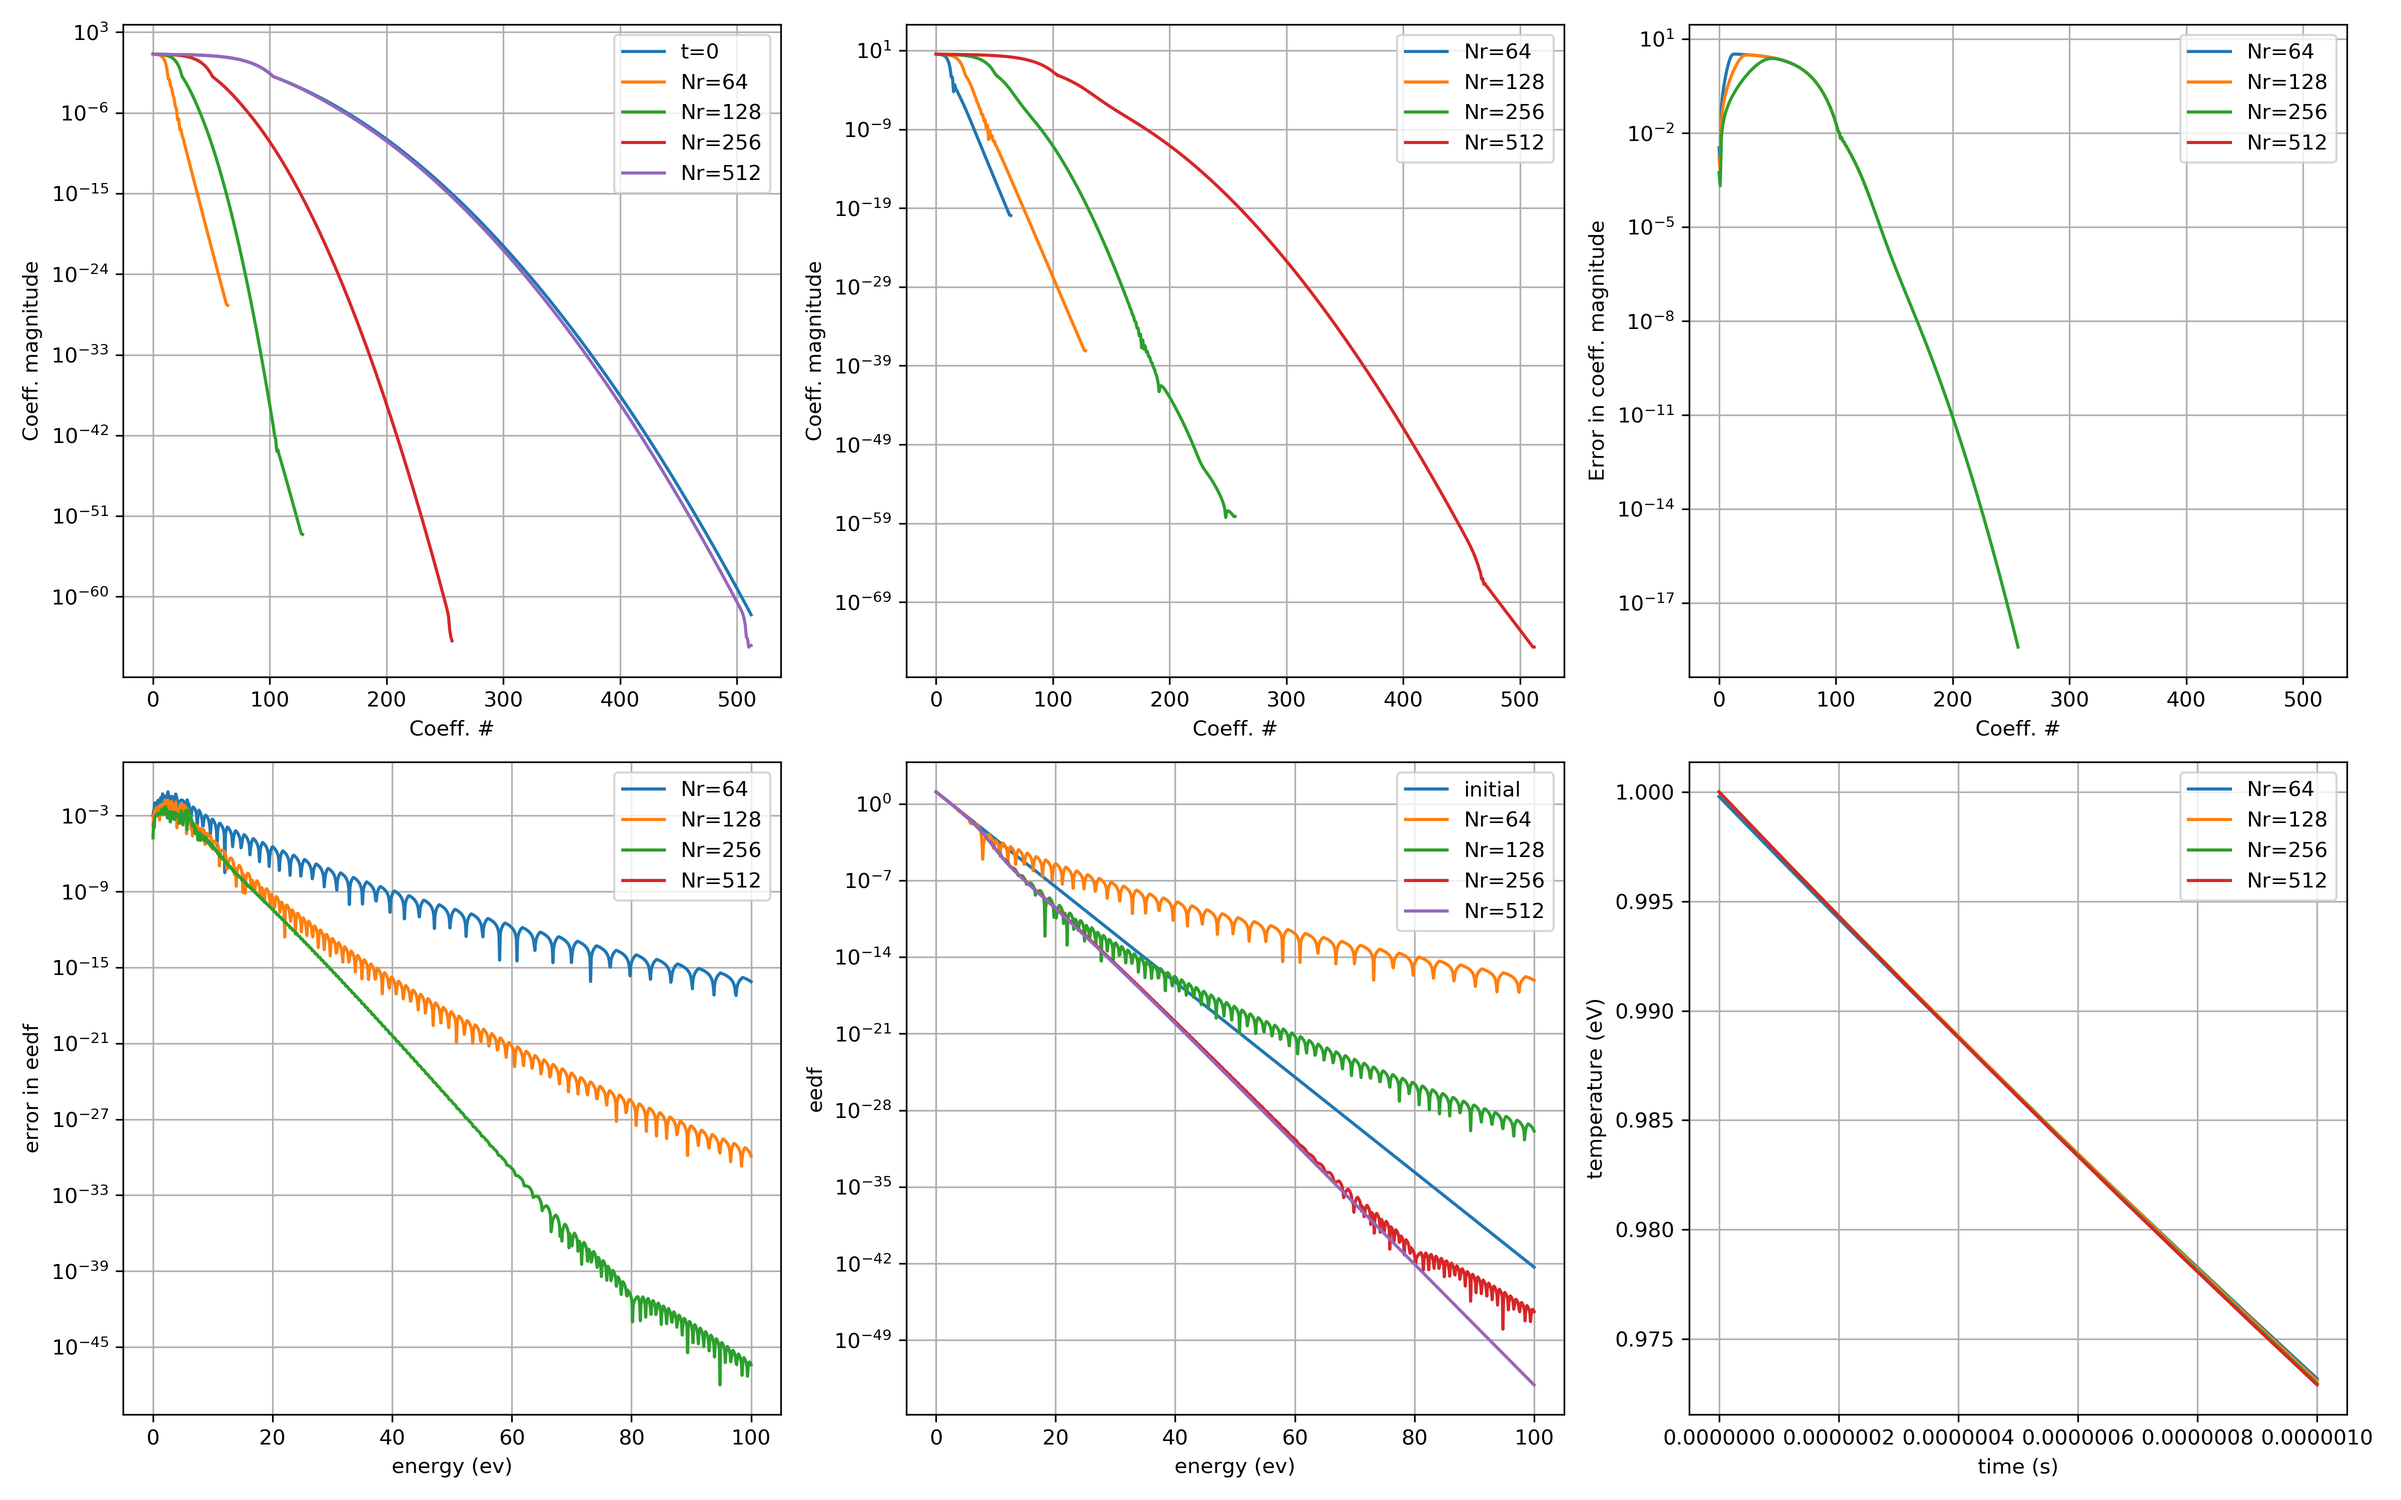
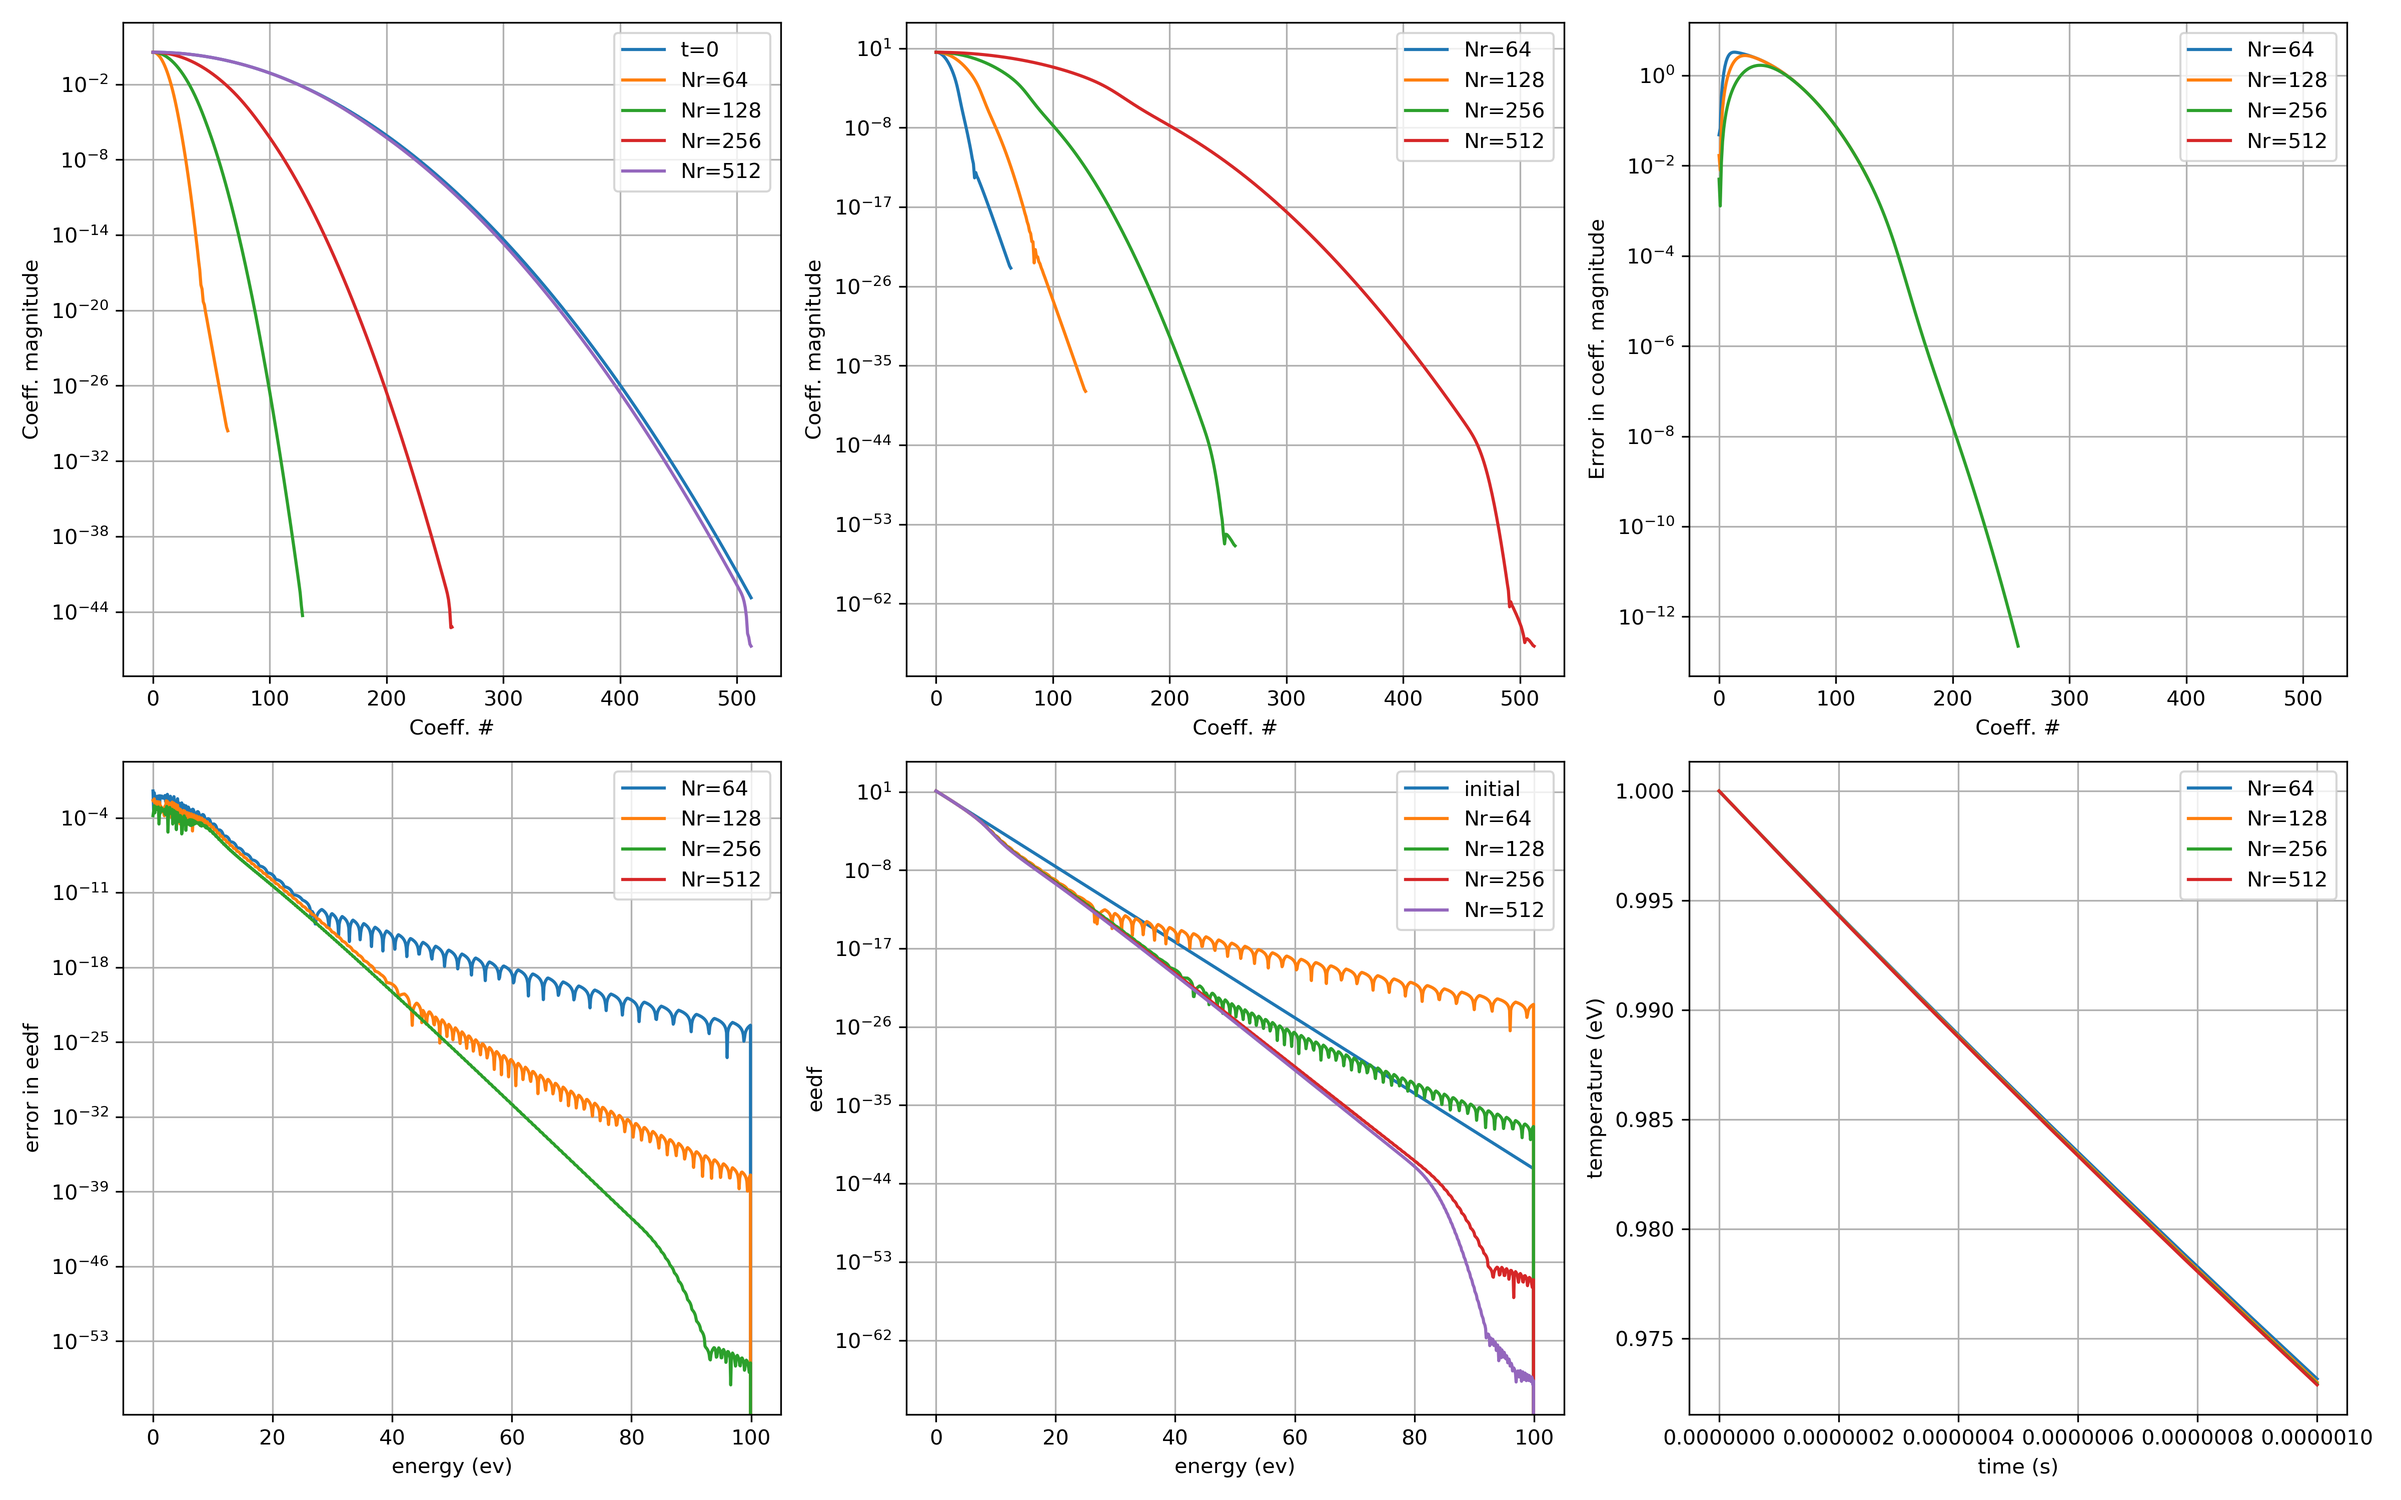
spline slides

diff --git a/Docs/2022-02-20-vspace-solver/slides_splines.tex b/Docs/2022-02-20-vspace-solver/slides_splines.tex
@@ -278,69 +278,71 @@
 \end{frame}
 
 
-\begin{frame}
-\frametitle{V-space solver (with operator splitting)}
-\begin{columns}
-	\begin{column}{0.5\textwidth}
-		\begin{center}
-			\tiny
-			\begin{align*}
-			\partial_t f + \vect{E}\cdot \nabla_{\vect{v}} f = C[f]
-			\end{align*}
-			\begin{align*}
-			&\left\{
-			\begin{aligned}
-			\partial_t f^{(0)} + \vect{E}\cdot \nabla_{\vect{v}} f^{(0)} &= 0, \quad t_n < t \leq t_n + \frac12 \Delta t \\
-			f^{(0)}\of{t_n} &= f\of{t_n}
-			\end{aligned}
-			\right.
-			\\
-			&\left\{
-			\begin{aligned}
-			\partial_t f^{(1)} &= C[f^{(1)}], \quad t_n < t \leq t_n + \Delta t \\
-			f^{(1)}\of{t_n} &= f^{(0)}\of{t_n + \frac12 \Delta t}
-			\end{aligned}
-			\right.
-			\\
-			&\left\{
-			\begin{aligned}
-			\partial_t f^{(2)} + \vect{E}\cdot \nabla_{\vect{v}} f^{(2)} &= 0, \quad t_n + \frac12 \Delta t < t \leq t_n + \Delta t  \\
-			f^{(2)}\of{t_n} &= f^{(1)}\of{t_n + \Delta t}
-			\end{aligned}
-			\right.
-			\\
-			& f\of{t_n + \Delta t} = f^{(2)}\of{t_n + \Delta t}
-			\end{align*}
-		\end{center}
-	\end{column}
-	\begin{column}{0.5\textwidth}  %%<--- here
-		\begin{center}
-			Overall algorithm: given $\vect{v}_0$, $a_{klm}$ at $t_n$:
-			\begin{enumerate}
-				\item $\vect{v}_0 \leftarrow \vect{v}_0 - \myint_{t_n}^{t_n+\frac12 \Delta t} \vect{E}\of{\tau} d\tau$
-				\item Solve collision op.  from $t_0$ to $t_0 + \Delta t$
-				\item If temperature increased project to higher $v_{th}$.
-				\item $\vect{v}_0 \leftarrow \vect{v}_0 - \myint_{t_n+\frac12 \Delta t}^{t_n + \Delta t} \vect{E}\of{\tau} d\tau$
-			\end{enumerate}
-		\end{center}
-	\end{column}
-\end{columns}
-\end{frame}
+%\begin{frame}
+%\frametitle{V-space solver (with operator splitting)}
+%\begin{columns}
+%	\begin{column}{0.5\textwidth}
+%		\begin{center}
+%			\tiny
+%			\begin{align*}
+%			\partial_t f + \vect{E}\cdot \nabla_{\vect{v}} f = C[f]
+%			\end{align*}
+%			\begin{align*}
+%			&\left\{
+%			\begin{aligned}
+%			\partial_t f^{(0)} + \vect{E}\cdot \nabla_{\vect{v}} f^{(0)} &= 0, \quad t_n < t \leq t_n + \frac12 \Delta t \\
+%			f^{(0)}\of{t_n} &= f\of{t_n}
+%			\end{aligned}
+%			\right.
+%			\\
+%			&\left\{
+%			\begin{aligned}
+%			\partial_t f^{(1)} &= C[f^{(1)}], \quad t_n < t \leq t_n + \Delta t \\
+%			f^{(1)}\of{t_n} &= f^{(0)}\of{t_n + \frac12 \Delta t}
+%			\end{aligned}
+%			\right.
+%			\\
+%			&\left\{
+%			\begin{aligned}
+%			\partial_t f^{(2)} + \vect{E}\cdot \nabla_{\vect{v}} f^{(2)} &= 0, \quad t_n + \frac12 \Delta t < t \leq t_n + \Delta t  \\
+%			f^{(2)}\of{t_n} &= f^{(1)}\of{t_n + \Delta t}
+%			\end{aligned}
+%			\right.
+%			\\
+%			& f\of{t_n + \Delta t} = f^{(2)}\of{t_n + \Delta t}
+%			\end{align*}
+%		\end{center}
+%	\end{column}
+%	\begin{column}{0.5\textwidth}  %%<--- here
+%		\begin{center}
+%			Overall algorithm: given $\vect{v}_0$, $a_{klm}$ at $t_n$:
+%			\begin{enumerate}
+%				\item $\vect{v}_0 \leftarrow \vect{v}_0 - \frac{q_e}{m_e}\myint_{t_n}^{t_n+\frac12 \Delta t} \vect{E}\of{\tau} d\tau$
+%				\item Solve collision op.  from $t_0$ to $t_0 + \Delta t$
+%				\item compute $\tilde{v}_0$ from updated $f$
+%				\item Project $f$ from $v_0$ to  $\tilde{v}_0$ update $v_0\leftarrow \tilde{v}_0$
+%				\item If temperature increased project to higher $v_{th}$.
+%				\item $\vect{v}_0 \leftarrow \vect{v}_0 - \frac{q_e}{m_e}\myint_{t_n+\frac12 \Delta t}^{t_n + \Delta t} \vect{E}\of{\tau} d\tau$
+%			\end{enumerate}
+%		\end{center}
+%	\end{column}
+%\end{columns}
+%\end{frame}
 
 \begin{frame}
-	\frametitle{Maxwell : Elastic + Ionization + advection}
+	\frametitle{Eulerian approach with linear splines}
+	E=10V/m along z-axis, with elastic + ionization reactions, T=$10^{-4}$ s
 	\begin{figure}
-		\includegraphics[width=0.7\textwidth]{figures/m_test_vspace_coeff.png}
+		\includegraphics[width=0.65\textwidth]{figures/b_1ev_10Vpm_vspace_coeff.png}
 	\end{figure}
 \end{frame}
 
-\begin{frame}
-	\frametitle{B-spline : Elastic + Ionization + advection}
-	\begin{figure}
-		\includegraphics[width=0.7\textwidth]{figures/b_test_vspace_coeff.png}
-	\end{figure}
-\end{frame}
-
+%\begin{frame}
+%	\frametitle{Maxwell : Elastic + Ionization + advection}
+%	\begin{figure}
+%		\includegraphics[width=0.7\textwidth]{figures/m_test_vspace_coeff.png}
+%	\end{figure}
+%\end{frame}
 
 
 
